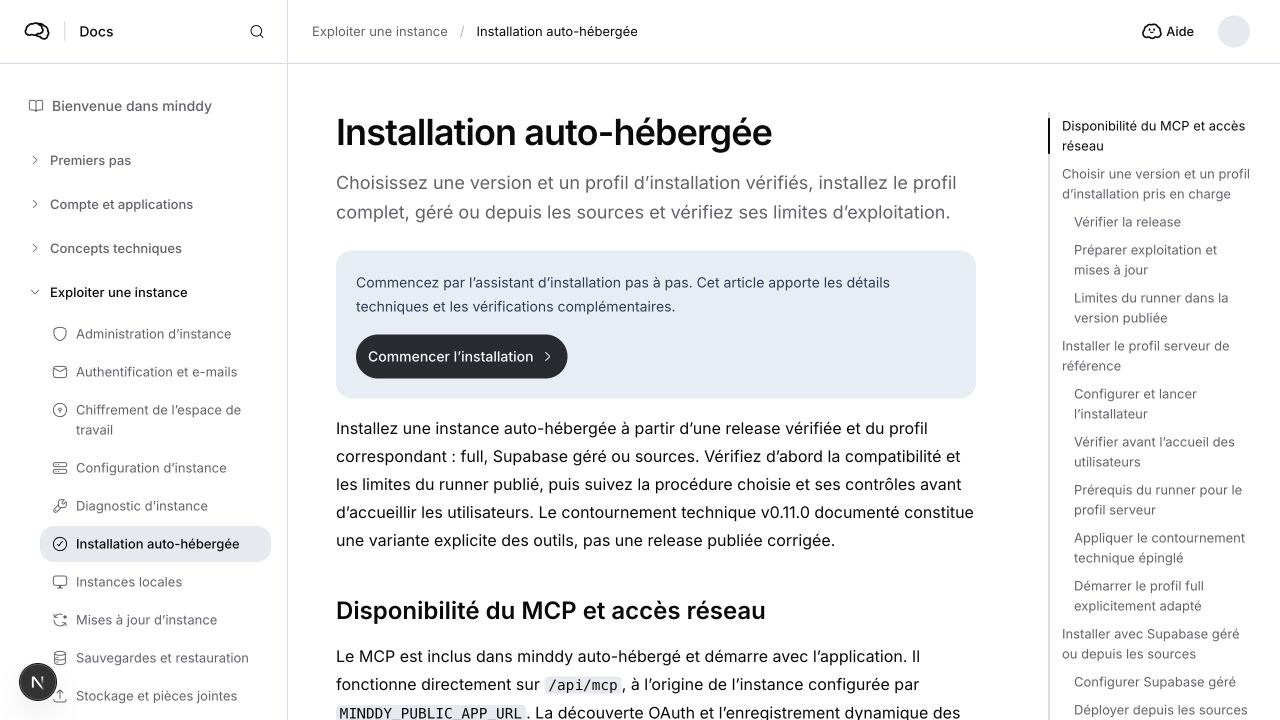
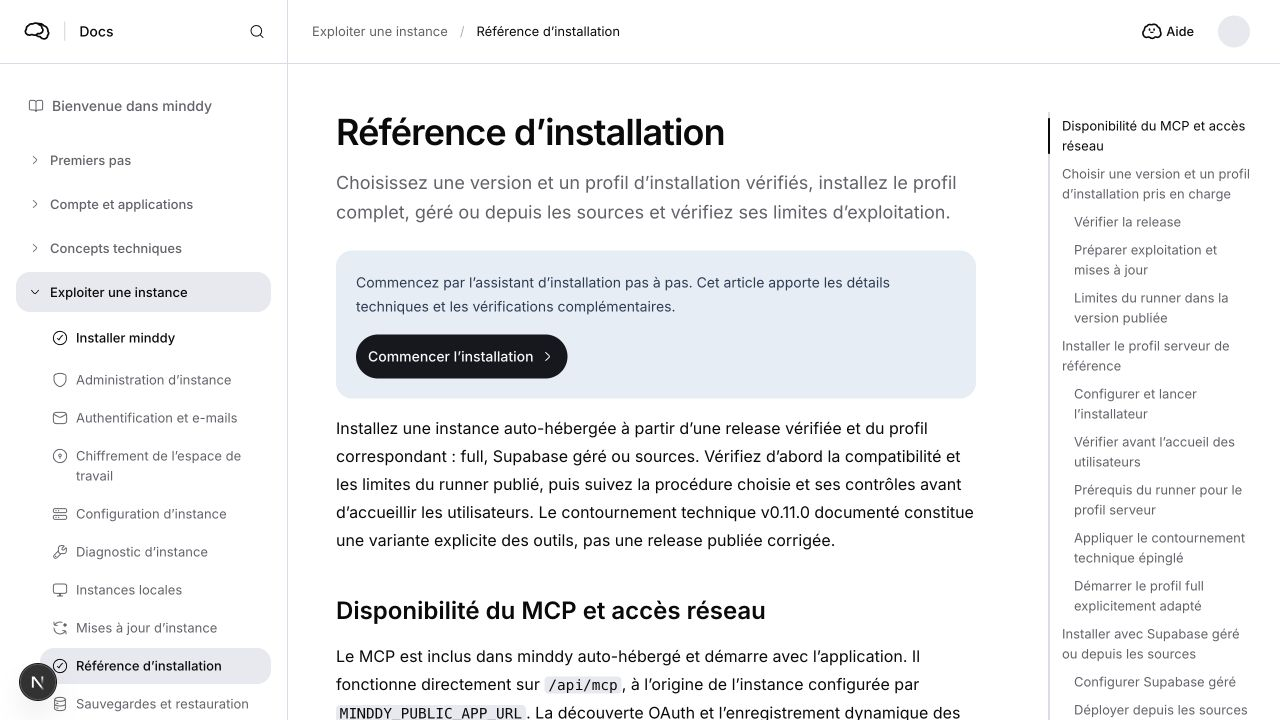
docs: prioritize the self-hosting wizard across entry points

diff --git a/components/documentation/documentation-navigation.tsx b/components/documentation/documentation-navigation.tsx
@@ -8,6 +8,7 @@ import { Button, Collapsible, CollapsibleContent, CollapsibleTrigger, Sheet, She
 import type { Locale } from "@/i18n/config";
 import type { DocumentationArticle, DocumentationSearchEntry } from "@/lib/documentation";
 import { documentationPath, searchDocumentation } from "@/lib/documentation-core.mjs";
+import { localizedHref } from "@/lib/locale-href";
 import { CommandPalette, usePaletteStore } from "@/lib/command-palette";
 import { documentationTopicKey, openDocumentationTopic, useDocumentationTopics } from "@/lib/use-documentation-topics";
 import { DocumentationIcon } from "./documentation-icon";
@@ -19,7 +20,7 @@ export function DocumentationSidebar({ articles, locale, currentId, labels, onNa
   articles: DocumentationNavigationEntry[];
   locale: Locale;
   currentId: string | null;
-  labels: { topics: string; welcome: string; close: string };
+  labels: { topics: string; welcome: string; close: string; install: string };
   onNavigate?: () => void;
 }) {
   const startTopic = articles.find(article => article.id === "first-project")?.topic;
@@ -39,6 +40,12 @@ export function DocumentationSidebar({ articles, locale, currentId, labels, onNa
       </CollapsibleTrigger>
       <CollapsibleContent className="motion-reduce:animate-none">
         <ul className="ml-4 space-y-0.5 py-1 pl-2">
+          {articles.some(article => article.topic === topic && article.id === "installation") && <li>
+            <Link href={localizedHref("/self-hosting/install", locale)} prefetch={false} onNavigate={onNavigate}
+              className="flex min-h-11 items-center gap-2 rounded-md px-3 py-2 text-[13px] font-medium leading-5 text-foreground transition-colors hover:bg-muted focus-visible:outline-2 focus-visible:outline-ring">
+              <DocumentationIcon articleId="installation" className="size-4 shrink-0" /><span>{labels.install}</span>
+            </Link>
+          </li>}
           {articles.filter(article => article.topic === topic).map(article => <li key={article.id}>
             <Link href={documentationPath(article.id, locale)} prefetch={false} onNavigate={onNavigate} aria-current={article.id === currentId ? "page" : undefined}
               className="flex items-start gap-2 rounded-md px-3 py-2 text-[13px] leading-5 text-muted-foreground transition-colors hover:bg-muted hover:text-foreground aria-[current=page]:bg-muted aria-[current=page]:font-medium aria-[current=page]:text-foreground focus-visible:outline-2 focus-visible:outline-ring"><DocumentationIcon articleId={article.id} className="mt-0.5 size-4 shrink-0" /><span>{article.title}</span></Link>

diff --git a/components/marketing/section-editions.tsx b/components/marketing/section-editions.tsx
@@ -12,13 +12,13 @@ import { SectionHeading } from "./section-heading";
 
 /** Two hosting choices share one source code story and one aligned layout. */
 export async function SectionEditions() {
-  const [t, locale] = await Promise.all([getTranslations("Landing"), getLocale()]);
+  const [t, locale, td] = await Promise.all([getTranslations("Landing"), getLocale(), getTranslations("Documentation")]);
   const href = (path: string) => localizedHref(path, locale as Locale);
   const editions = [
     { title: t("cloudTitle"), body: t("cloudBody"), icon: CloudIcon, tone: CARD_TONES.sky,
       points: [t("cloudPointOne"), t("cloudPointTwo"), t("cloudPointThree")], href: href("/pricing"), cta: t("cloudCta") },
     { title: t("selfHostedTitle"), body: t("selfHostedBody"), icon: Server, tone: CARD_TONES.lavender,
-      points: [t("selfHostedPointOne"), t("selfHostedPointTwo"), t("selfHostedPointThree")], href: href("/self-hosting"), cta: t("selfHostedCta") },
+      points: [t("selfHostedPointOne"), t("selfHostedPointTwo"), t("selfHostedPointThree")], href: href("/self-hosting/install"), cta: t("selfHostedCta"), referenceHref: href("/docs/installation") },
   ];
   return (
     <section id="editions" className="scroll-mt-24 bg-[#f6f3ef] px-4 py-16 sm:px-6 sm:py-24 dark:bg-[#211f20]">
@@ -36,6 +36,9 @@ export async function SectionEditions() {
               <Link href={edition.href} className="mt-auto inline-flex min-h-12 items-center justify-between gap-4 rounded-lg border border-current/20 px-4 py-3 text-sm font-medium transition-colors hover:bg-white/30 focus-visible:outline-2 focus-visible:outline-offset-4 focus-visible:outline-current dark:hover:bg-black/10">
                 {edition.cta}<HugeiconsIcon icon={ArrowRight01Icon} className="size-4 shrink-0" aria-hidden />
               </Link>
+              {edition.referenceHref && <Link href={edition.referenceHref} prefetch={false} className="mt-3 inline-flex min-h-11 w-fit items-center rounded text-sm underline underline-offset-4 opacity-80 hover:opacity-100 focus-visible:outline-2 focus-visible:outline-offset-4 focus-visible:outline-current">
+                {td("installReference")}
+              </Link>}
             </article>
           ))}
         </div>

diff --git a/components/documentation/documentation-shell.tsx b/components/documentation/documentation-shell.tsx
@@ -24,7 +24,7 @@ export async function DocumentationShell({ articles, locale, currentId, title, t
   const t = await getTranslations({ locale, namespace: "Documentation" });
   const tCommon = await getTranslations({ locale, namespace: "Common" });
   const navigation = { articles: articles.map(({ id, title, topic }) => ({ id, title, topic })), locale, currentId,
-    labels: { topics: t("topics"), welcome: t("welcome"), close: tCommon("close") } };
+    labels: { topics: t("topics"), welcome: t("welcome"), close: tCommon("close"), install: t("installWizardTitle") } };
   const searchArticles = [
     { id: "", locale, title: t("welcome"), topic: t("gettingStarted"), summary: t("welcomeSummary"), tags: [],
       content: [t("welcomeUse"), t("welcomeOperate"), t("welcomeIntegrate")].join("\n\n") },

diff --git a/components/marketing/self-hosting-install-wizard.tsx b/components/marketing/self-hosting-install-wizard.tsx
@@ -889,6 +889,7 @@ export function SelfHostingInstallWizard({
         <div className={cn("space-y-5", HIGHLIGHT_PANEL)}>
           <div className="flex items-start gap-3"><AppIcon icon={CheckIcon} className="mt-0.5 h-5 w-5 shrink-0 text-primary" aria-hidden /><p className="text-sm leading-relaxed">{path === "local" ? copy.localTeamAnswer : copy.answerUpdates}</p></div>
           {path === "local" && <Checklist items={[copy.desktopStopInstruction, copy.desktopRestartInstruction]} />}
+          {path === "local" && <ResourceLink href={`${links.guide}?route=team`}>{copy.installServer}</ResourceLink>}
           {path === "team" && <div className="flex flex-wrap gap-2"><ResourceLink href={links.operations}>{copy.openOperationsGuide}</ResourceLink></div>}
         </div>
       ),

diff --git a/components/marketing/pricing-plans.tsx b/components/marketing/pricing-plans.tsx
@@ -92,7 +92,7 @@ export function PricingPlans({
       <div className="mt-7 flex flex-col gap-3 text-xs leading-relaxed text-muted-foreground sm:flex-row sm:justify-between sm:gap-8">
         <p>{tl("pricingNote")}</p>
         {!compact && <p>{tl("pricingSelfHostedNote")} {" "}
-          <Link href={localizedHref("/self-hosting", locale as Locale)} className="font-medium text-foreground underline underline-offset-4">{tl("pricingSelfHostedCta")}</Link>
+          <Link href={localizedHref("/self-hosting/install", locale as Locale)} className="font-medium text-foreground underline underline-offset-4">{tl("pricingSelfHostedCta")}</Link>
         </p>}
       </div>
     </div>

diff --git a/app/(marketing)/pricing/page.tsx b/app/(marketing)/pricing/page.tsx
@@ -46,7 +46,7 @@ export default async function PricingPage() {
             </p>
             <p className="mt-5 max-w-2xl text-sm leading-relaxed text-pretty text-muted-foreground">
               {t("cloudNotice")}
-              <Link href={localizedHref("/self-hosting", locale as Locale)} className="mt-2 block w-fit font-medium text-foreground underline underline-offset-4">
+              <Link href={localizedHref("/self-hosting/install", locale as Locale)} className="mt-2 block w-fit font-medium text-foreground underline underline-offset-4">
                 {t("cloudNoticeCta")}
               </Link>
             </p>

diff --git a/components/marketing/marketing-footer.tsx b/components/marketing/marketing-footer.tsx
@@ -55,7 +55,7 @@ const COLUMNS: ReadonlyArray<FooterColumn> = [
       // site resource which is really one, and the internal link which must
       // be seen from all pages — a crawler counts incoming links.
       { href: "/mcp", labelKey: "navMenu_mcp_title" },
-      { href: "/self-hosting", labelKey: "navMenu_selfHosting_title" },
+      { href: "/self-hosting/install", labelKey: "navMenu_selfHosting_title" },
       { href: MINDDY_REPOSITORY_URL, labelKey: "footerRepository", external: true },
       { href: "/changelog", labelKey: "footerChangelog" },
       // Comparisons (MIN-93). They are NOWHERE else in the

diff --git a/components/documentation/documentation-navigation.test.tsx b/components/documentation/documentation-navigation.test.tsx
@@ -18,7 +18,7 @@ it("keeps one topic open and reveals each destination article across navigation 
     { id: "account-access", title: "Account access", topic: "Get started" },
     { id: "create-an-issue", title: "Create an issue", topic: "Projects" },
   ];
-  const labels = { topics: "Topics", welcome: "Welcome", close: "Close" };
+  const labels = { topics: "Topics", welcome: "Welcome", close: "Close", install: "Install minddy" };
   const host = document.createElement("div");
   document.body.append(host);
   let root = createRoot(host);

diff --git a/components/marketing/marketing-nav.tsx b/components/marketing/marketing-nav.tsx
@@ -45,7 +45,7 @@ const PRODUCT_ENTRIES: ReadonlyArray<ProductEntry> = [
   { key: "feedback", href: "/#feedback" },
   { key: "more", href: "/#more" },
   { key: "mcp", href: "/mcp" },
-  { key: "selfHosting", href: "/self-hosting" },
+  { key: "selfHosting", href: "/self-hosting/install" },
   // The desktop app is last because it describes where Minddy runs rather than
   // what it does. It remains discoverable without displacing the product story.
   { key: "download", href: "/download" },

diff --git a/content/documentation/pt-BR/installation.md b/content/documentation/pt-BR/installation.md
@@ -2,7 +2,7 @@
 {
   "id": "installation",
   "locale": "pt-BR",
-  "title": "Instalação auto-hospedada",
+  "title": "Referência de instalação",
   "summary": "Escolha uma versão e um perfil verificados, instale o perfil completo, gerenciado ou a partir do código-fonte e confira seus limites operacionais.",
   "topic": "Operar uma instância",
   "type": "guide",
@@ -16,8 +16,8 @@
   ],
   "visibility": "public",
   "status": "published",
-  "revision": 5,
-  "sourceRevision": 5,
+  "revision": 6,
+  "sourceRevision": 6,
   "owner": "@mangue-dev",
   "updatedAt": "2026-10-09",
   "compatibility": {
@@ -50,13 +50,15 @@
       "lib/server/app-origin.ts",
       "lib/server/oauth/issuer.ts",
       "app/api/oauth/register/route.ts",
-      "lib/server/oauth/metadata.ts"
+      "lib/server/oauth/metadata.ts",
+      "components/documentation/documentation-navigation.tsx",
+      "components/documentation/documentation-article.tsx"
     ]
   },
   "review": {
-    "revision": 5,
-    "fact": "agent:/root consolidation review; agent:/root/italian_portuguese_review retained-meaning comparison with prior procedural evidence (no operational rerun); agent:/root (visual usefulness, figure framing and preserved procedures; previous operational evidence retained); agent:/root (technical-reference formatting; prior factual evidence retained; no operational rerun); agent:/root (MIN-672 MCP availability and network guidance checked against route, origin, discovery, registration and local launcher source; no operational rerun)",
-    "language": "agent:/root/italian_portuguese_review (localized feature scope, summaries and heading review; retained source procedures); agent:/root/editorial_it_pt (editorial clarity pass); agent:/root (figure removals and captions); agent:/root/editorial_it_pt (collection-caption clarity); agent:/root (inline-code syntax and unchanged-text review); agent:/root (MIN-672 pt-BR network guidance and terminology review)",
+    "revision": 6,
+    "fact": "agent:/root consolidation review; agent:/root/italian_portuguese_review retained-meaning comparison with prior procedural evidence (no operational rerun); agent:/root (visual usefulness, figure framing and preserved procedures; previous operational evidence retained); agent:/root (technical-reference formatting; prior factual evidence retained; no operational rerun); agent:/root (MIN-672 MCP availability and network guidance checked against route, origin, discovery, registration and local launcher source; no operational rerun); agent:/root (installation article labeled as supporting reference; primary wizard entry points verified; existing figures and procedural evidence retained)",
+    "language": "agent:/root/italian_portuguese_review (localized feature scope, summaries and heading review; retained source procedures); agent:/root/editorial_it_pt (editorial clarity pass); agent:/root (figure removals and captions); agent:/root/editorial_it_pt (collection-caption clarity); agent:/root (inline-code syntax and unchanged-text review); agent:/root (MIN-672 pt-BR network guidance and terminology review); agent:/root (pt-BR installation-reference title review)",
     "date": "2026-10-09"
   },
   "related": [
@@ -82,7 +84,7 @@
       "src": "/documentation/pt-BR/self-hosted-compatibility-flow.svg",
       "alt": "Diagrama: Tag de código anotada. Arquivos e SHA256SUMS. Assinatura e digest OCI oficiais. Perfil de compatibilidade escolhido.",
       "caption": "Siga as etapas nesta ordem. Tag de código anotada. Arquivos e `SHA256SUMS`. Assinatura e digest OCI oficiais. Perfil de compatibilidade escolhido.",
-      "revision": 5,
+      "revision": 6,
       "reviewed": true,
       "capturedAt": "2026-10-08",
       "viewport": [
@@ -114,7 +116,7 @@
       "src": "/documentation/pt-BR/install-a-server-flow.svg",
       "alt": "Diagrama: Release verificada e ambiente protegido. Instalador: perfil full de referência. Supabase oficial, app, agendador, runner. Verificação de conta, arquivos e recuperação.",
       "caption": "Siga as etapas nesta ordem. Release verificada e ambiente protegido. Instalador: perfil full de referência. Supabase oficial, app, agendador, runner. Verificação de conta, arquivos e recuperação.",
-      "revision": 5,
+      "revision": 6,
       "reviewed": true,
       "capturedAt": "2026-10-08",
       "viewport": [
@@ -146,7 +148,7 @@
       "src": "/documentation/pt-BR/install-a-server-wizard.png",
       "alt": "Assistente público de instalação com Supabase no mesmo servidor selecionado.",
       "caption": "O perfil full mantém a aplicação e o Supabase no seu servidor. Neste exemplo, o acesso pela rede privada fica restrito à rede local.",
-      "revision": 5,
+      "revision": 6,
       "reviewed": true,
       "capturedAt": "2026-10-09",
       "viewport": [
@@ -163,7 +165,7 @@
       "src": "/documentation/pt-BR/managed-or-source-installation-flow.svg",
       "alt": "Diagrama: Seu projeto Supabase gerenciado. PostgreSQL, Auth, Storage, Realtime. Perfil OCI OU aplicação de tag. Tarefas e backup conforme perfil.",
       "caption": "A escolha entre imagem OCI e compilação pelo código-fonte muda a gestão da aplicação, enquanto o provedor gerencia o backend.",
-      "revision": 5,
+      "revision": 6,
       "reviewed": true,
       "capturedAt": "2026-10-08",
       "viewport": [

diff --git a/content/documentation/it/installation.md b/content/documentation/it/installation.md
@@ -2,7 +2,7 @@
 {
   "id": "installation",
   "locale": "it",
-  "title": "Installazione self-hosted",
+  "title": "Riferimento per l’installazione",
   "summary": "Scegli una versione e un profilo verificati, installa il profilo completo, gestito o dai sorgenti e verifica i suoi limiti operativi.",
   "topic": "Gestire un’istanza",
   "type": "guide",
@@ -16,8 +16,8 @@
   ],
   "visibility": "public",
   "status": "published",
-  "revision": 5,
-  "sourceRevision": 5,
+  "revision": 6,
+  "sourceRevision": 6,
   "owner": "@mangue-dev",
   "updatedAt": "2026-10-09",
   "compatibility": {
@@ -50,13 +50,15 @@
       "lib/server/app-origin.ts",
       "lib/server/oauth/issuer.ts",
       "app/api/oauth/register/route.ts",
-      "lib/server/oauth/metadata.ts"
+      "lib/server/oauth/metadata.ts",
+      "components/documentation/documentation-navigation.tsx",
+      "components/documentation/documentation-article.tsx"
     ]
   },
   "review": {
-    "revision": 5,
-    "fact": "agent:/root consolidation review; agent:/root/italian_portuguese_review retained-meaning comparison with prior procedural evidence (no operational rerun); agent:/root (visual usefulness, figure framing and preserved procedures; previous operational evidence retained); agent:/root (technical-reference formatting; prior factual evidence retained; no operational rerun); agent:/root (MIN-672 MCP availability and network guidance checked against route, origin, discovery, registration and local launcher source; no operational rerun)",
-    "language": "agent:/root/italian_portuguese_review (localized feature scope, summaries and heading review; retained source procedures); agent:/root/editorial_it_pt (editorial clarity pass); agent:/root (figure removals and captions); agent:/root/editorial_it_pt (collection-caption clarity); agent:/root (inline-code syntax and unchanged-text review); agent:/root (MIN-672 it network guidance and terminology review)",
+    "revision": 6,
+    "fact": "agent:/root consolidation review; agent:/root/italian_portuguese_review retained-meaning comparison with prior procedural evidence (no operational rerun); agent:/root (visual usefulness, figure framing and preserved procedures; previous operational evidence retained); agent:/root (technical-reference formatting; prior factual evidence retained; no operational rerun); agent:/root (MIN-672 MCP availability and network guidance checked against route, origin, discovery, registration and local launcher source; no operational rerun); agent:/root (installation article labeled as supporting reference; primary wizard entry points verified; existing figures and procedural evidence retained)",
+    "language": "agent:/root/italian_portuguese_review (localized feature scope, summaries and heading review; retained source procedures); agent:/root/editorial_it_pt (editorial clarity pass); agent:/root (figure removals and captions); agent:/root/editorial_it_pt (collection-caption clarity); agent:/root (inline-code syntax and unchanged-text review); agent:/root (MIN-672 it network guidance and terminology review); agent:/root (it installation-reference title review)",
     "date": "2026-10-09"
   },
   "related": [
@@ -82,7 +84,7 @@
       "src": "/documentation/it/self-hosted-compatibility-flow.svg",
       "alt": "Schema: Tag sorgente annotato. Asset e SHA256SUMS. Firma e digest OCI ufficiali. Profilo di compatibilità scelto.",
       "caption": "Segui le fasi in questo ordine. Tag sorgente annotato. Asset e `SHA256SUMS`. Firma e digest OCI ufficiali. Profilo di compatibilità scelto.",
-      "revision": 5,
+      "revision": 6,
       "reviewed": true,
       "capturedAt": "2026-10-08",
       "viewport": [
@@ -114,7 +116,7 @@
       "src": "/documentation/it/install-a-server-flow.svg",
       "alt": "Schema: Release verificata e ambiente protetto. Installer: profilo full di riferimento. Supabase ufficiale, app, scheduler, runner. Verifica account, file e recupero.",
       "caption": "Segui le fasi in questo ordine. Release verificata e ambiente protetto. Installer: profilo full di riferimento. Supabase ufficiale, app, scheduler, runner. Verifica account, file e recupero.",
-      "revision": 5,
+      "revision": 6,
       "reviewed": true,
       "capturedAt": "2026-10-08",
       "viewport": [
@@ -146,7 +148,7 @@
       "src": "/documentation/it/install-a-server-wizard.png",
       "alt": "Assistente pubblico di installazione con Supabase sullo stesso server selezionato.",
       "caption": "Il profilo full mantiene applicazione e Supabase sul tuo server. In questo esempio, l’accesso tramite rete privata è limitato alla rete locale.",
-      "revision": 5,
+      "revision": 6,
       "reviewed": true,
       "capturedAt": "2026-10-09",
       "viewport": [
@@ -163,7 +165,7 @@
       "src": "/documentation/it/managed-or-source-installation-flow.svg",
       "alt": "Schema: Il tuo progetto Supabase gestito. PostgreSQL, Auth, Storage, Realtime. Profilo OCI O applicazione dal tag. Job e backup specifici del profilo.",
       "caption": "La scelta tra immagine OCI e compilazione dai sorgenti cambia la gestione dell’applicazione, mentre il provider gestisce il backend.",
-      "revision": 5,
+      "revision": 6,
       "reviewed": true,
       "capturedAt": "2026-10-08",
       "viewport": [

diff --git a/content/documentation/de/installation.md b/content/documentation/de/installation.md
@@ -2,7 +2,7 @@
 {
   "id": "installation",
   "locale": "de",
-  "title": "Self-hosted-Installation",
+  "title": "Installationsreferenz",
   "summary": "Wählen Sie eine geprüfte Version und ein Installationsprofil, installieren Sie das vollständige, verwaltete oder Quellcode-Profil und prüfen Sie dessen Betriebsgrenzen.",
   "topic": "Instanz betreiben",
   "type": "guide",
@@ -16,8 +16,8 @@
   ],
   "visibility": "public",
   "status": "published",
-  "revision": 5,
-  "sourceRevision": 5,
+  "revision": 6,
+  "sourceRevision": 6,
   "owner": "@mangue-dev",
   "updatedAt": "2026-10-09",
   "compatibility": {
@@ -50,13 +50,15 @@
       "lib/server/app-origin.ts",
       "lib/server/oauth/issuer.ts",
       "app/api/oauth/register/route.ts",
-      "lib/server/oauth/metadata.ts"
+      "lib/server/oauth/metadata.ts",
+      "components/documentation/documentation-navigation.tsx",
+      "components/documentation/documentation-article.tsx"
     ]
   },
   "review": {
-    "revision": 5,
-    "fact": "agent:/root/german_spanish_review (structural consolidation review; prior procedural evidence retained; no operational rerun); agent:/root (visual usefulness, figure framing and preserved procedures; previous operational evidence retained); agent:/root (technical-reference formatting; prior factual evidence retained; no operational rerun); agent:/root (MIN-672 MCP availability and network guidance checked against route, origin, discovery, registration and local launcher source; no operational rerun)",
-    "language": "agent:/root/german_spanish_review (de title, summary, lead and heading review; retained body comparison); agent:/root/editorial_de_es (editorial clarity pass); agent:/root (figure removals and captions); agent:/root/editorial_de_es (collection-caption clarity); agent:/root (inline-code syntax and unchanged-text review); agent:/root (MIN-672 de network guidance and terminology review)",
+    "revision": 6,
+    "fact": "agent:/root/german_spanish_review (structural consolidation review; prior procedural evidence retained; no operational rerun); agent:/root (visual usefulness, figure framing and preserved procedures; previous operational evidence retained); agent:/root (technical-reference formatting; prior factual evidence retained; no operational rerun); agent:/root (MIN-672 MCP availability and network guidance checked against route, origin, discovery, registration and local launcher source; no operational rerun); agent:/root (installation article labeled as supporting reference; primary wizard entry points verified; existing figures and procedural evidence retained)",
+    "language": "agent:/root/german_spanish_review (de title, summary, lead and heading review; retained body comparison); agent:/root/editorial_de_es (editorial clarity pass); agent:/root (figure removals and captions); agent:/root/editorial_de_es (collection-caption clarity); agent:/root (inline-code syntax and unchanged-text review); agent:/root (MIN-672 de network guidance and terminology review); agent:/root (de installation-reference title review)",
     "date": "2026-10-09"
   },
   "related": [
@@ -82,7 +84,7 @@
       "src": "/documentation/de/self-hosted-compatibility-flow.svg",
       "alt": "Diagramm: Annotierter Quelltag. Dateien und SHA256SUMS. Offizielle OCI-Signatur und Digest. Gewähltes Kompatibilitätsprofil.",
       "caption": "Lesen Sie die Schritte in dieser Reihenfolge. Annotierter Quelltag. Dateien und `SHA256SUMS`. Offizielle OCI-Signatur und Digest. Gewähltes Kompatibilitätsprofil.",
-      "revision": 5,
+      "revision": 6,
       "reviewed": true,
       "capturedAt": "2026-10-08",
       "viewport": [
@@ -114,7 +116,7 @@
       "src": "/documentation/de/install-a-server-flow.svg",
       "alt": "Diagramm: Geprüfte Release und geschützte Umgebung. Installer: full-Referenzprofil. Offizielles Supabase, App, Scheduler, Runner. Konto-, Datei- und Wiederherstellungsprüfung.",
       "caption": "Lesen Sie die Schritte in dieser Reihenfolge. Geprüfte Release und geschützte Umgebung. Installer: full-Referenzprofil. Offizielles Supabase, App, Scheduler, Runner. Konto-, Datei- und Wiederherstellungsprüfung.",
-      "revision": 5,
+      "revision": 6,
       "reviewed": true,
       "capturedAt": "2026-10-08",
       "viewport": [
@@ -146,7 +148,7 @@
       "src": "/documentation/de/install-a-server-wizard.png",
       "alt": "Öffentlicher Installationsassistent mit ausgewähltem Supabase auf demselben Server.",
       "caption": "Das Profil full betreibt Anwendung und Supabase auf Ihrem Server. In diesem Beispiel bleibt der private Netzwerkzugang auf das LAN beschränkt.",
-      "revision": 5,
+      "revision": 6,
       "reviewed": true,
       "capturedAt": "2026-10-09",
       "viewport": [
@@ -163,7 +165,7 @@
       "src": "/documentation/de/managed-or-source-installation-flow.svg",
       "alt": "Diagramm: Ihr verwaltetes Supabase-Projekt. PostgreSQL, Auth, Storage, Realtime. OCI-Profil ODER Anwendung aus Quelltag. Jobs und Sicherung passend zum Profil.",
       "caption": "Anwendung und Backend müssen zum gewählten Profil passen, einschließlich Zeitplänen und Sicherungsverfahren.",
-      "revision": 5,
+      "revision": 6,
       "reviewed": true,
       "capturedAt": "2026-10-08",
       "viewport": [
